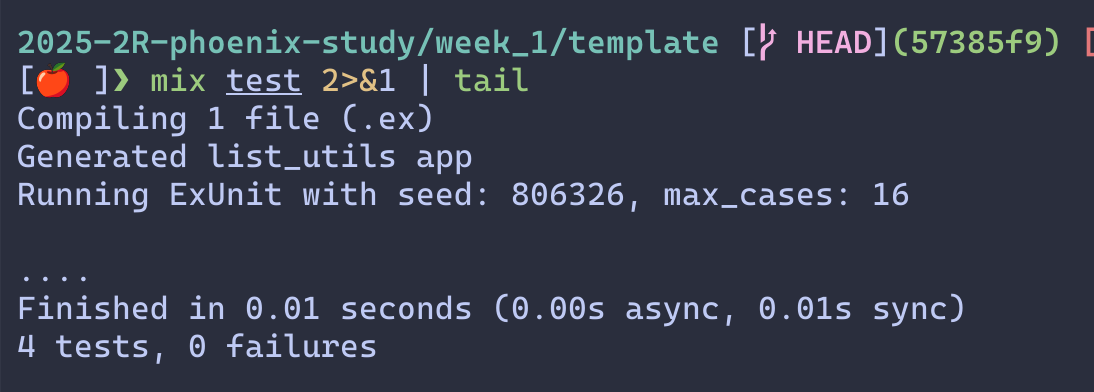
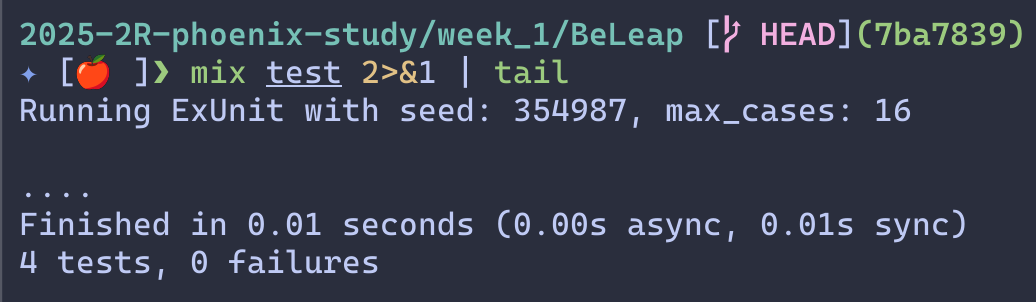
update success

diff --git a/week_1/README.md b/week_1/README.md
@@ -8,6 +8,6 @@
 
   ![failure](./assets/failure.png)
 
-- 이번 주의 영역을 학습한 후 test가 성공하게 만들어서 PR로 제출해주세요
+- 이번 주의 영역을 학습한 후 본인의 GitHub ID로 되어있는 디렉토리에서 test가 성공하게 만들어서 PR로 제출해주세요
 
   ![success](./assets/success.png)
